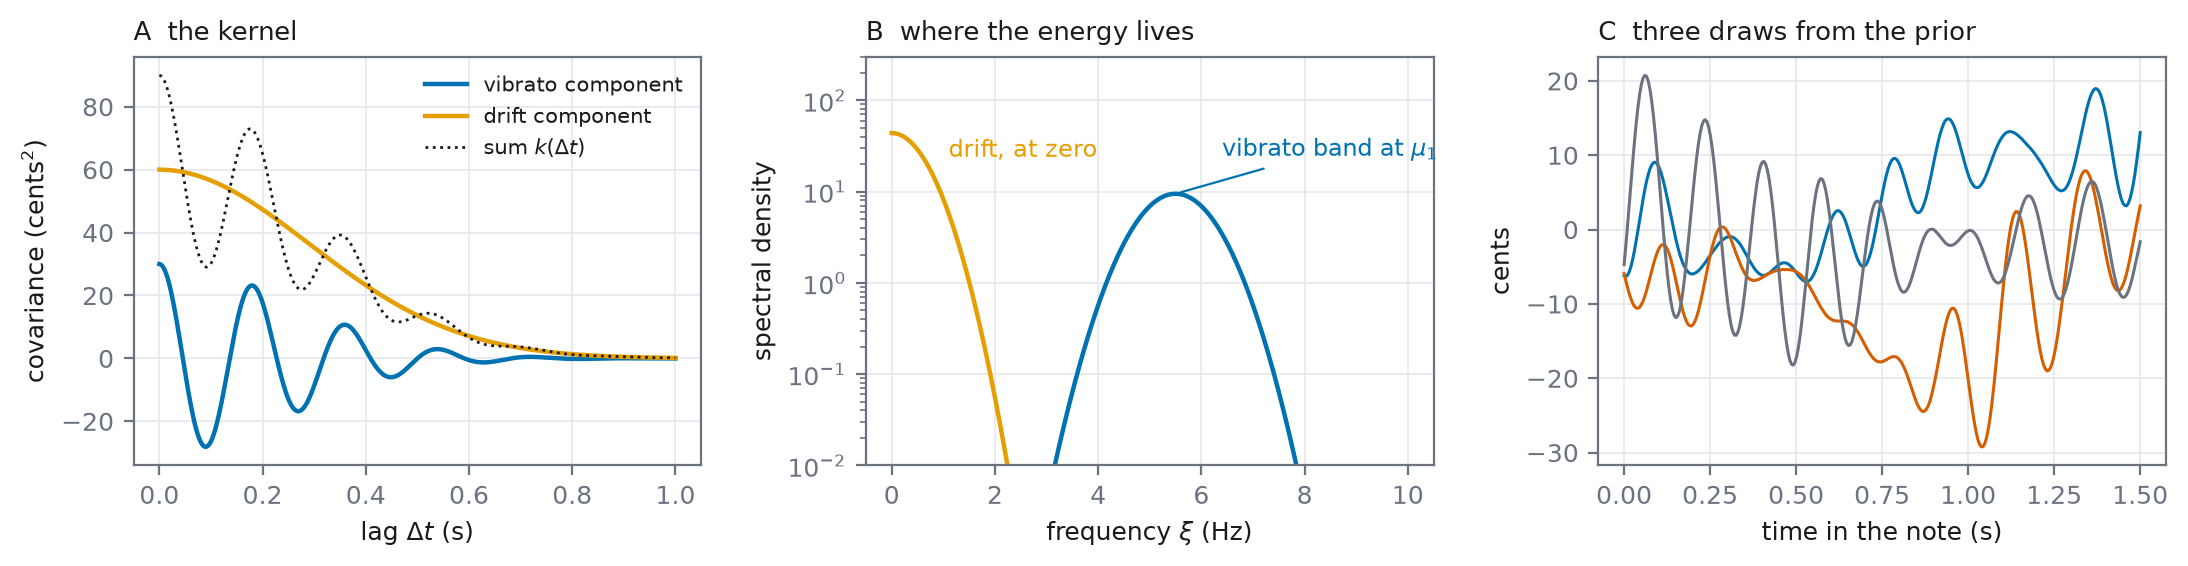
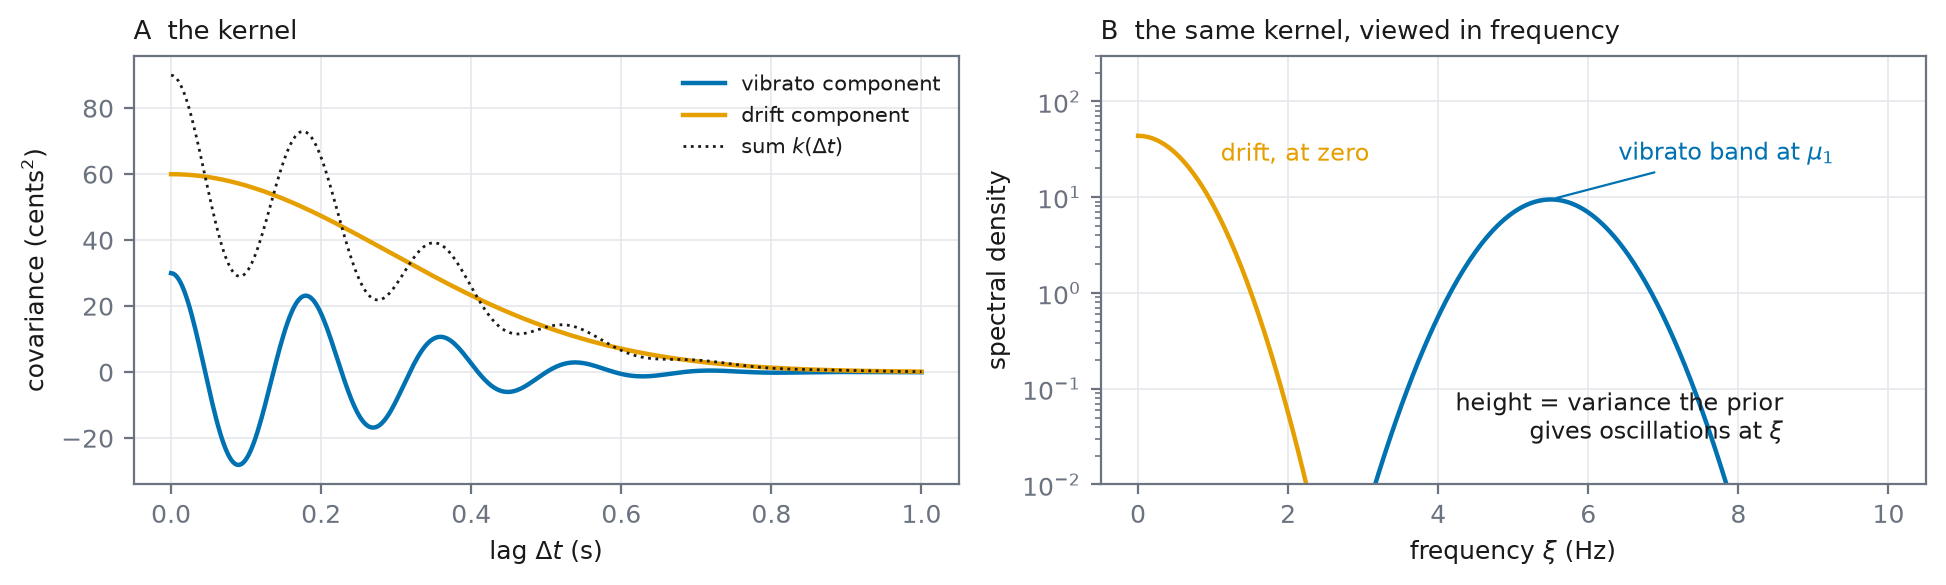
Kernel figure back as A+B, C dropped, B explained
Per Ray mid-flight: A stays, B needed explanation, C unnecessary.
Two-panel figure with B self-annotated (height = the variance the prior
gives oscillations at that frequency); the slide caption states the
Fourier-pair reading in words. Timing slides remain hidden. 30 slides.

diff --git a/scripts/make_kernel_viz.py b/scripts/make_kernel_viz.py
@@ -11,7 +11,7 @@ plt.rcParams.update({"font.size": 9, "axes.titlesize": 9.5,
                      "grid.color": "#E5E7EB", "grid.linewidth": 0.6,
                      "legend.frameon": False, "figure.dpi": 200})
 w1, mu1, v1, w2, v2 = 30.0, 5.5, 0.4, 60.0, 0.3
-fig, (a, b, c) = plt.subplots(1, 3, figsize=(11.0, 2.9))
+fig, (a, b) = plt.subplots(1, 2, figsize=(9.8, 3.0))
 dt = np.linspace(0, 1.0, 400)
 k1 = w1 * np.exp(-2 * np.pi**2 * v1 * dt**2) * np.cos(2 * np.pi * mu1 * dt)
 k2 = w2 * np.exp(-2 * np.pi**2 * v2 * dt**2)
@@ -30,18 +30,9 @@ b.annotate("vibrato band at $\\mu_1$", xy=(mu1, S1.max()), xytext=(6.4, S1.max()
 b.text(1.1, S2.max()*0.55, "drift, at zero", color=ORANGE, fontsize=8.5)
 b.set_yscale("log"); b.set_ylim(1e-2, 300)
 b.set_xlabel("frequency $\\xi$ (Hz)"); b.set_ylabel("spectral density")
-b.set_title("B  where the energy lives", loc="left")
-tt = np.linspace(0, 1.5, 300)
-tau = tt[:, None] - tt[None, :]
-K = (w1 * np.exp(-2*np.pi**2*v1*tau**2) * np.cos(2*np.pi*mu1*tau)
-     + w2 * np.exp(-2*np.pi**2*v2*tau**2))
-K[np.diag_indices_from(K)] += 1e-6 * (w1 + w2)
-L = np.linalg.cholesky(K)
-rng = np.random.default_rng(4)
-for i, col in enumerate([BLUE, VERM, MUTED]):
-    c.plot(tt, L @ rng.standard_normal(tt.size), color=col, lw=1.1)
-c.set_xlabel("time in the note (s)"); c.set_ylabel("cents")
-c.set_title("C  three draws from the prior", loc="left")
+b.set_title("B  the same kernel, viewed in frequency", loc="left")
+b.text(8.6, 3e-2, "height = variance the prior\ngives oscillations at $\\xi$",
+       color=INK, fontsize=8.5, ha="right")
 fig.tight_layout()
 fig.savefig("docs/thesis/figures/kernel_viz.png", bbox_inches="tight")
-print("wrote kernel_viz.png")
+print("wrote kernel_viz.png (A+B)")

diff --git a/docs/slides/deck_week.tex b/docs/slides/deck_week.tex
@@ -426,6 +426,16 @@
   \end{itemize}
 \end{frame}
 
+% ---------------------------------------------------------------------
+\begin{frame}{The kernel: covariance and spectrum}
+  \figslotw{kernel_viz.png}{0.95}{kernel}
+  \vspace{-2mm}
+  {\small\textcolor{muted}{A: the two components of $k(\Delta t)$. B:
+  the same kernel in frequency (the two are a Fourier pair): the curve's
+  height at $\xi$ is the variance the prior gives oscillations at that
+  frequency, a band at the vibrato rate plus drift near zero.}}
+\end{frame}
+
 
 
 % ---------------------------------------------------------------------

diff --git a/docs/zemi_prep.md b/docs/zemi_prep.md
@@ -1,6 +1,6 @@
 # Zemi prep (2026-10-08, 20 minutes, English) — private
 
-Deck: `docs/slides/deck_week.pdf`, 28 slides (4 chapter dividers), no backups. Order: concept 2, thesis 3, related work 4, model 5-11 (notation 11), piano 12-15 (posterior example 15), strings and winds 16-23 (setup 17, data figure 18, estimator 21, example note 22, results 23; kernel-viz and timing slides hidden for now), audio 26-28, summary 29, plan 30. Results are tables: best bolded, comparator in the header. Development language appears once, on the Audio divider. Audience: lab
+Deck: `docs/slides/deck_week.pdf`, 28 slides (4 chapter dividers), no backups. Order: concept 2, thesis 3, related work 4, model 5-11 (notation 11), piano 12-15 (posterior example 15), strings and winds 16-24 (setup 17, data figure 18, estimator 21, kernel A+B 22, example note 23, results 24; timing slides hidden for now), audio 26-28, summary 29, plan 30. Results are tables: best bolded, comparator in the header. Development language appears once, on the Audio divider. Audience: lab
 members with no prior context. Say "the GP estimator", never "SM-GP";
 say "correlated timing noise across notes", never bare "AR(1)".
 
